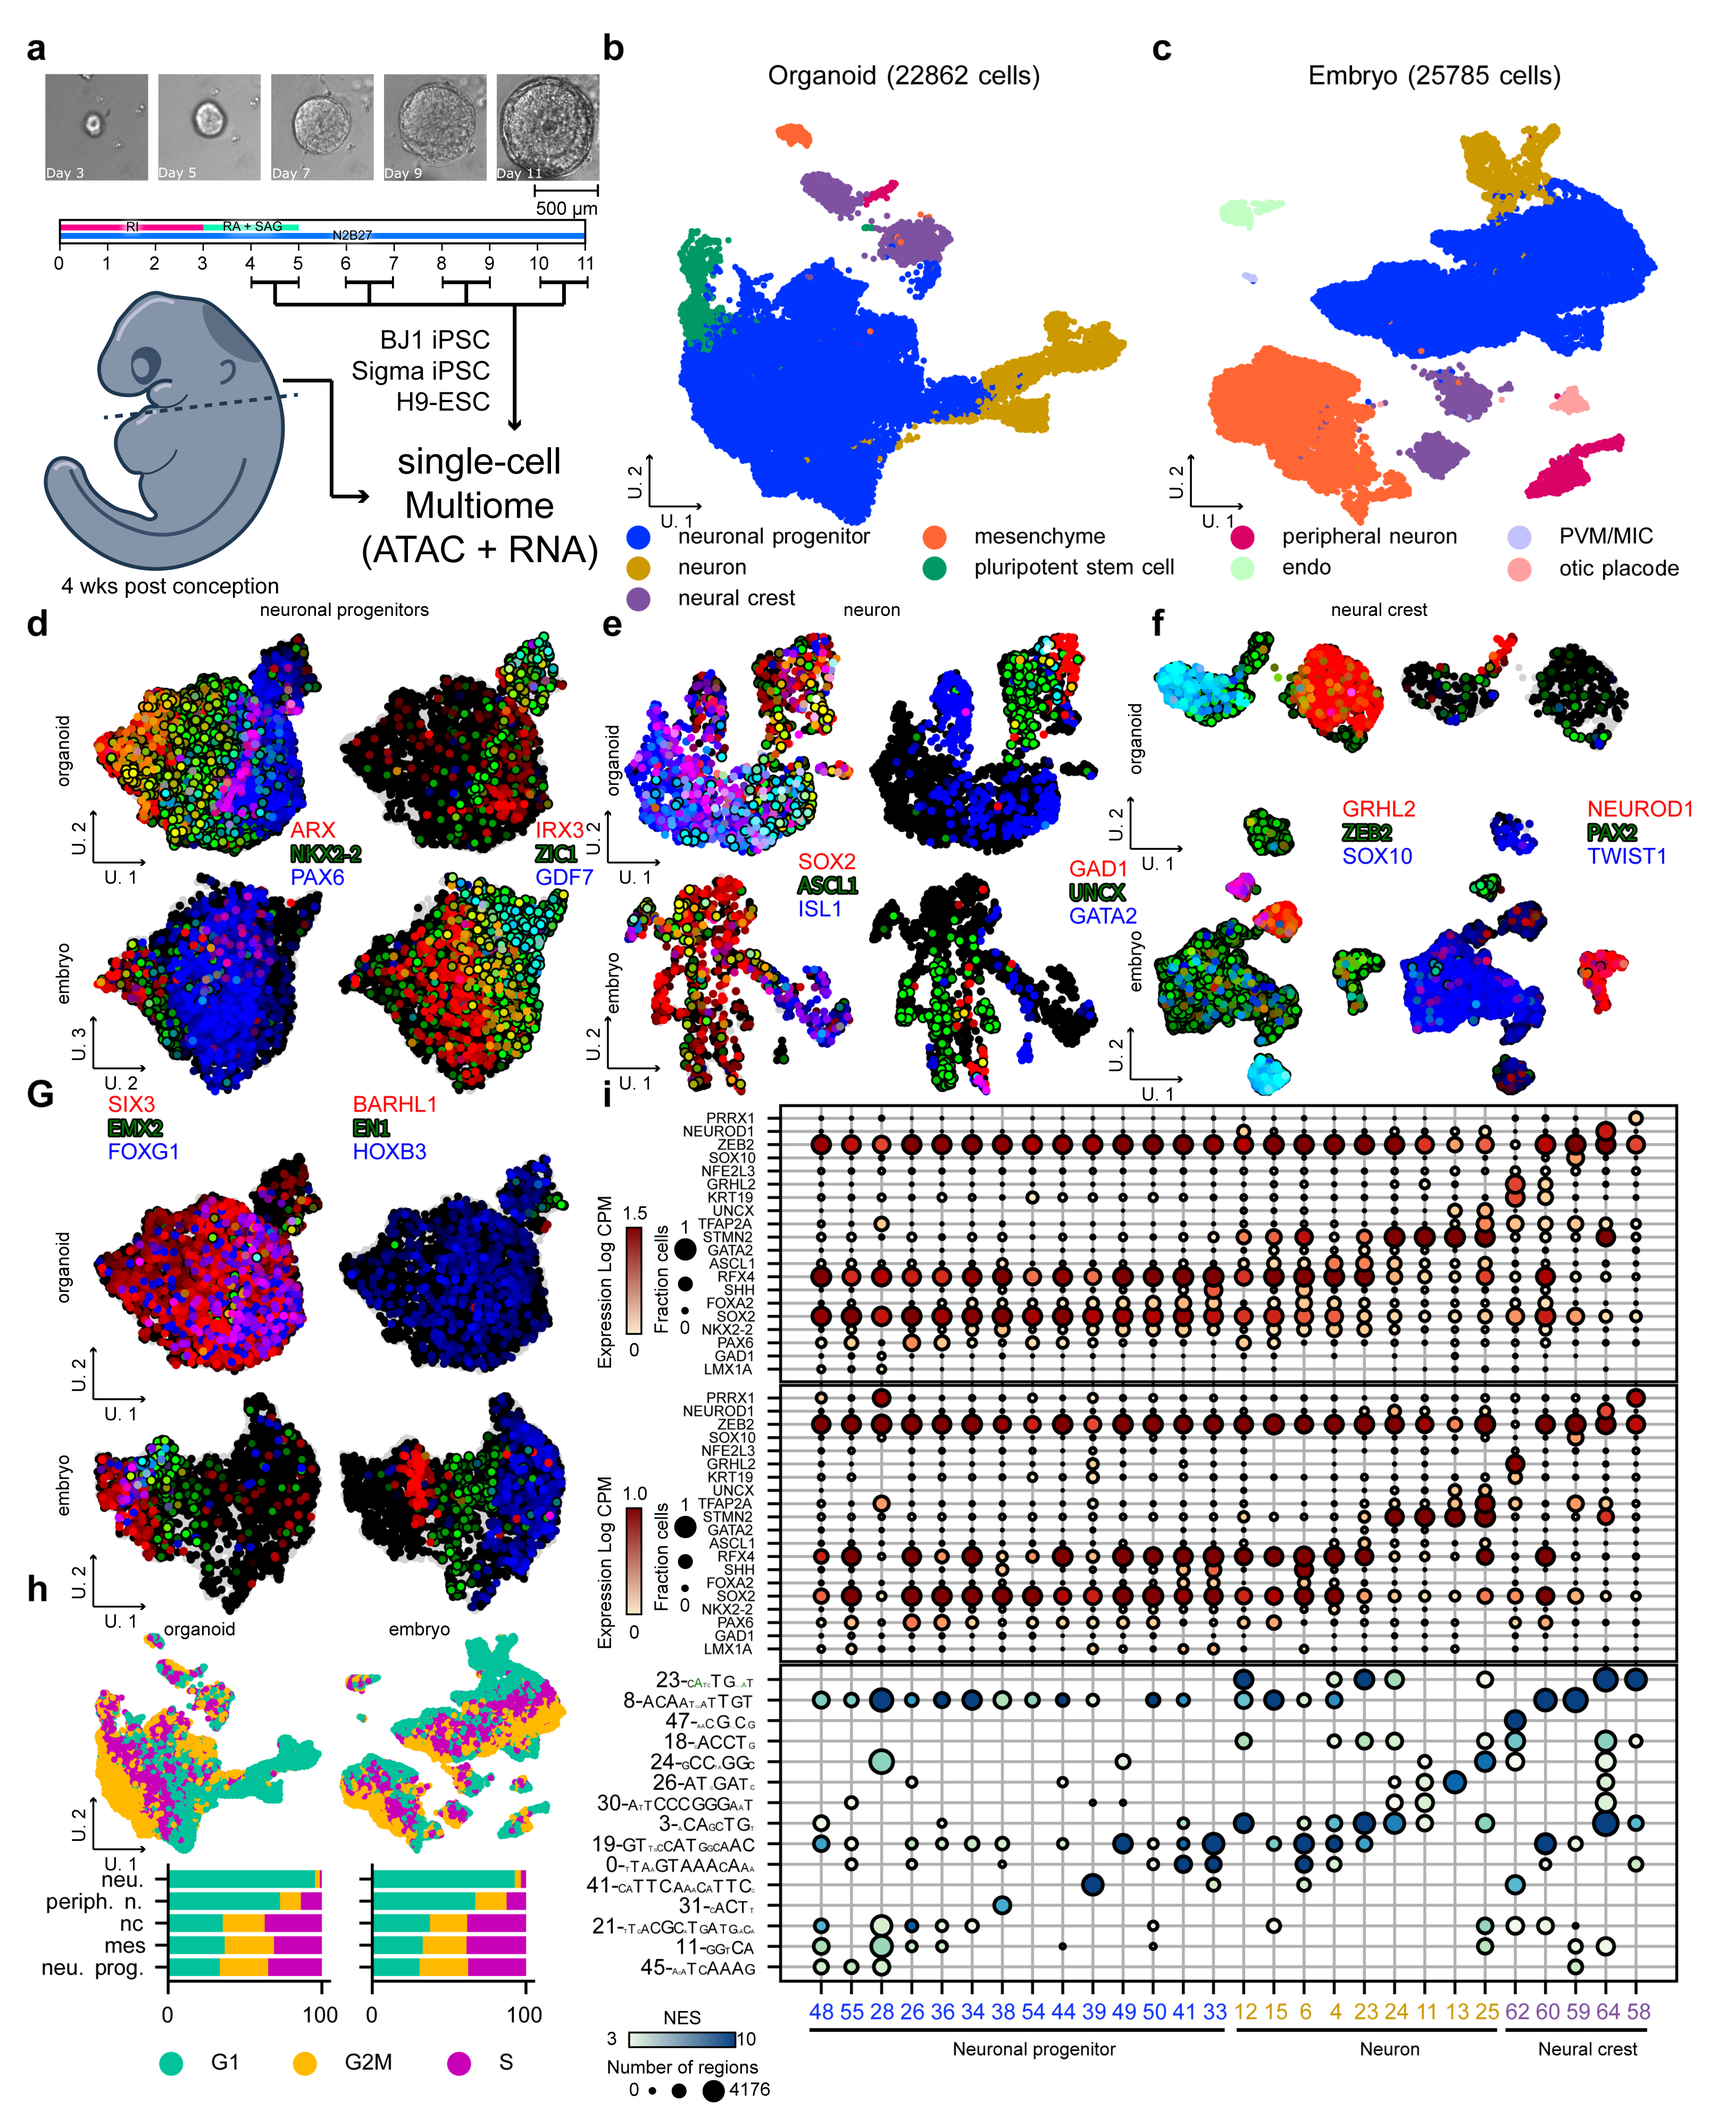
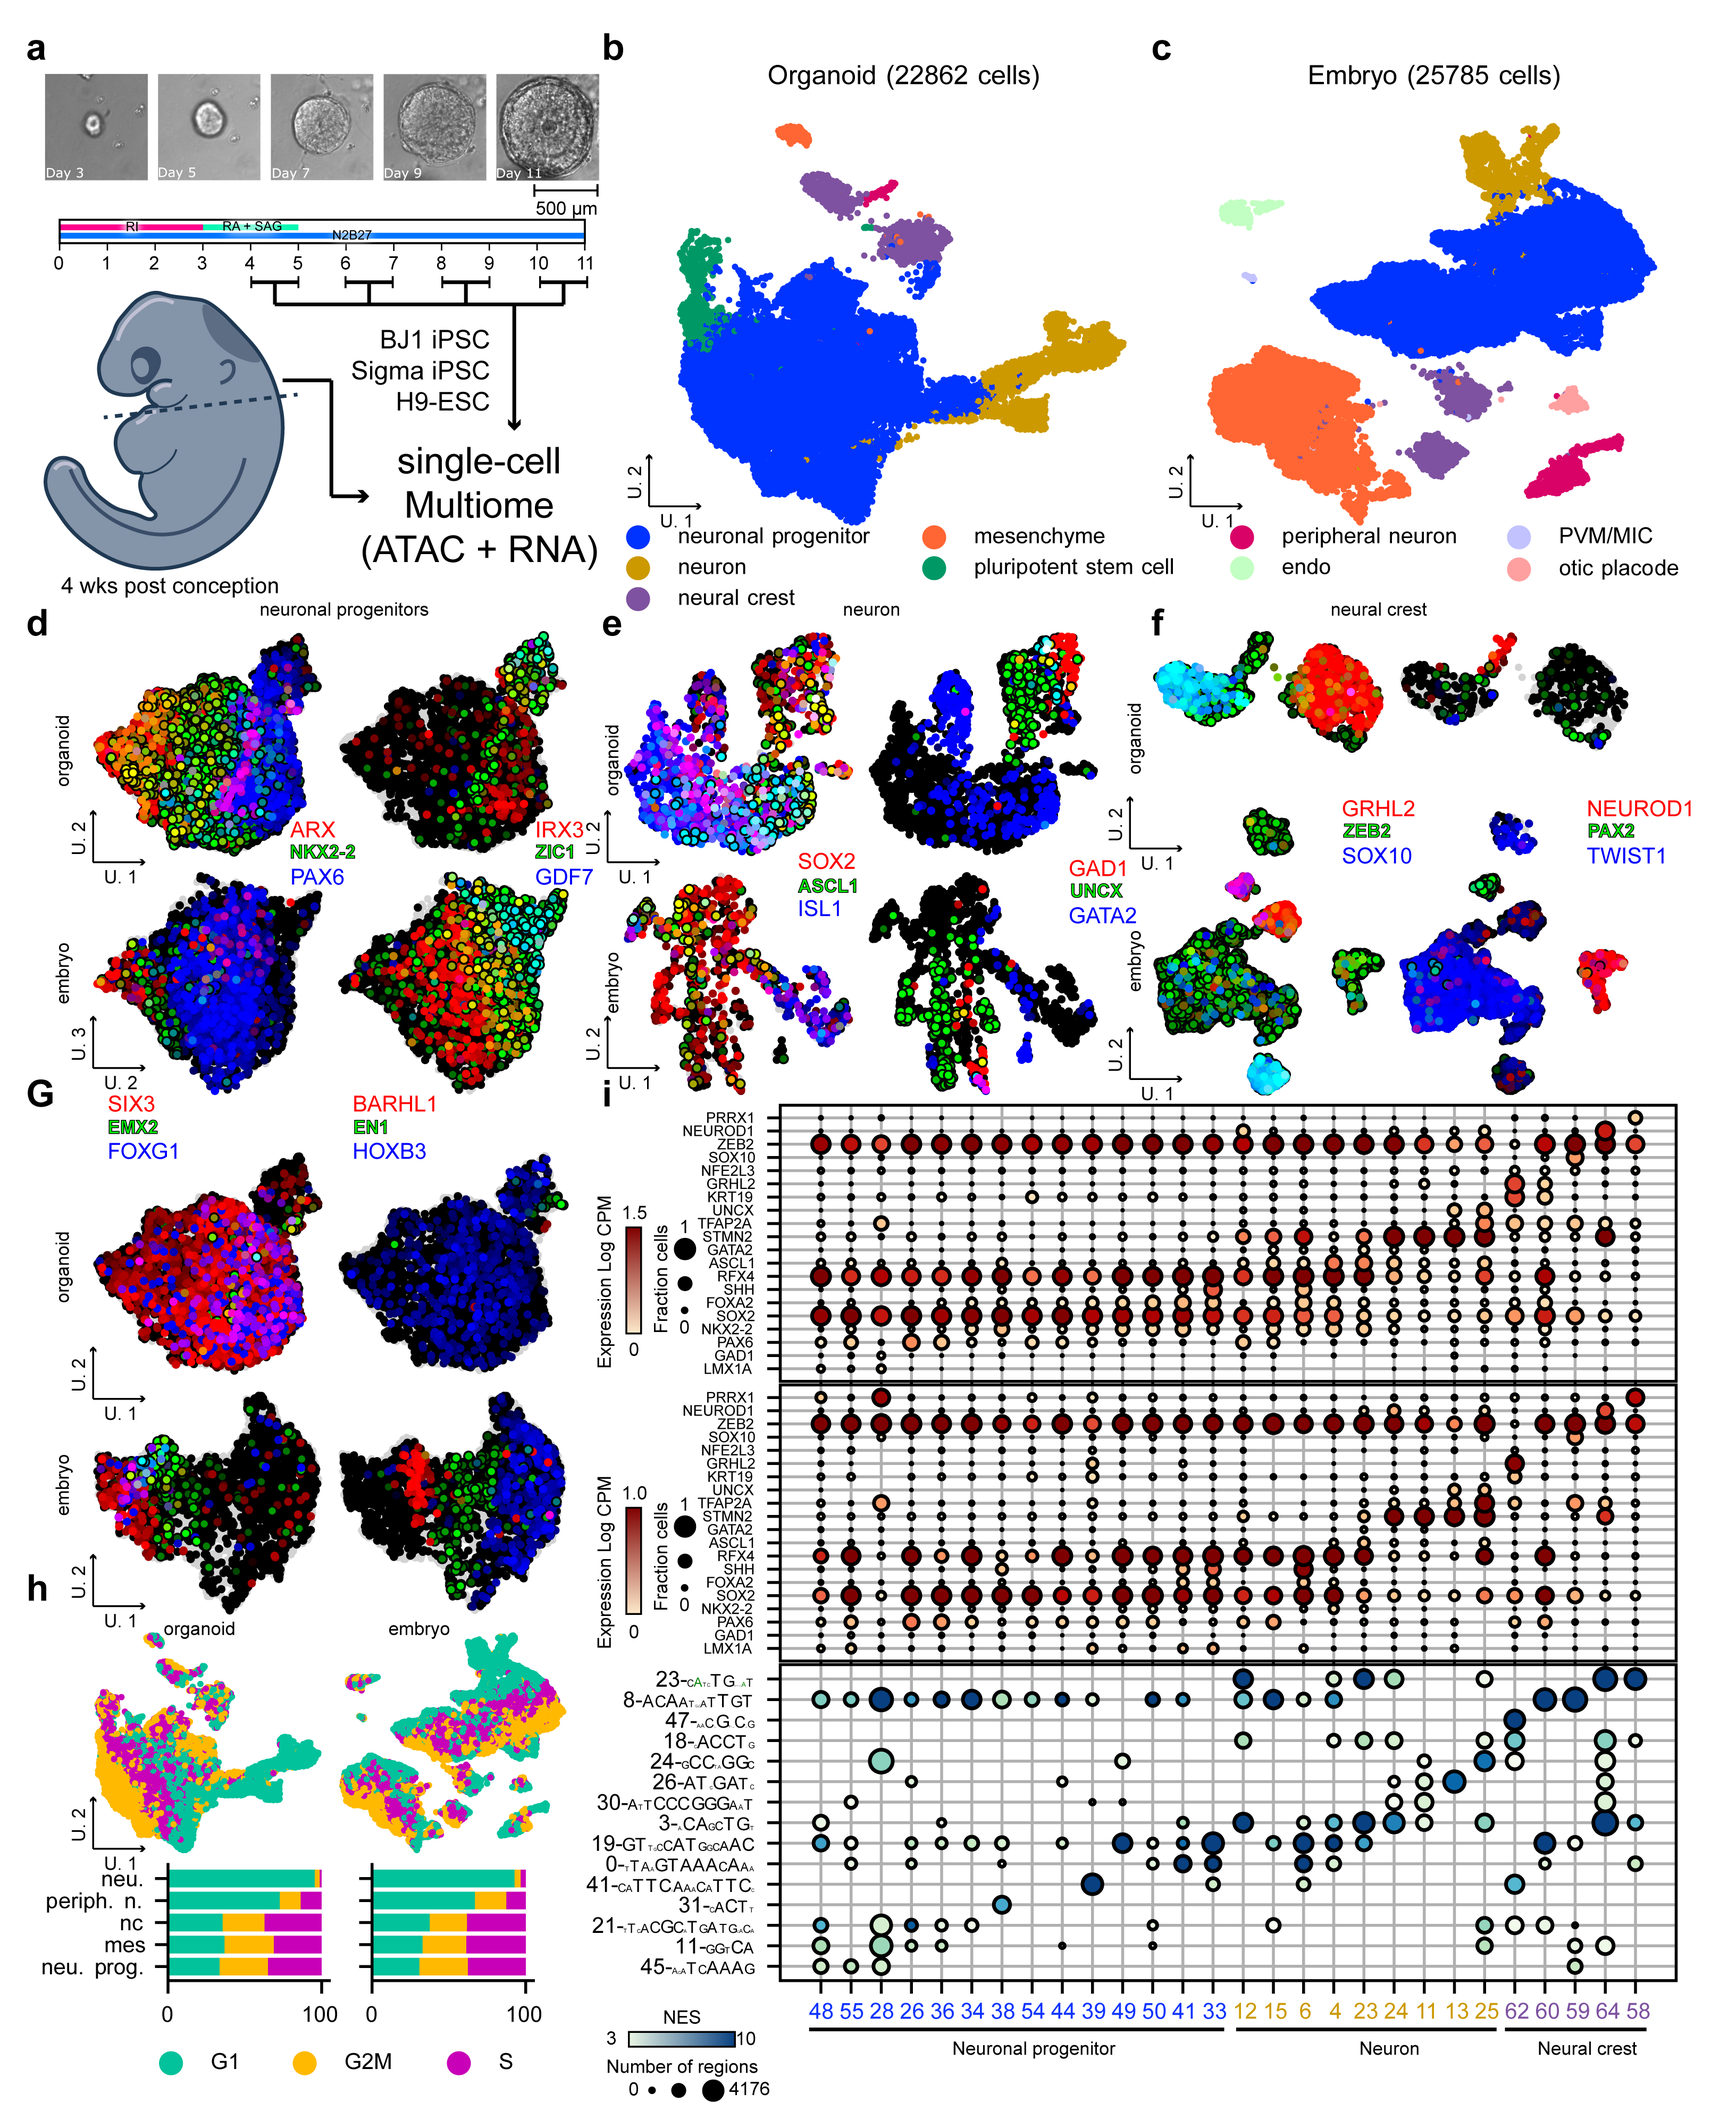
make text of fig 1 clearer

diff --git a/manuscript.tex b/manuscript.tex
@@ -231,9 +231,6 @@ and identified equivalent cells in the embryo where the same regions were also c
 We observed similar patterns of marker gene expression for the same cell state across the organoid and embryo (\textbf{Fig. 1i}) 
 with an average Pearson correlation coefficient of 0.83 across matched states (\textbf{Supplementary Fig. S1c-d}).\par
 
-
-%TODO:D) The black outline on green text (EMX2/EN1 etc) makes it difficult to read and see the color. consider making it thinner
-
 \afterpage{\clearpage}
 \begin{figure}[p]
   \includegraphics[width=1.0\linewidth]{figures/main/Figure_1.png}
@@ -1740,11 +1737,10 @@ The Scanpy\cite{wolfSCANPYLargescaleSinglecell2018} (v1.11.0; \href{https://rrid
 \paragraph*{Enhancer cloning}
 
 Enhancer candidates were ordered from Twist Bioscience (\href{https://rrid.site/data/record/nlx_144509-1/SCR_025817/resolver}{RRID:SCR\_025817}) with 5\lq 5\lq-GGTACCGAGCTCGAG-3\lq and 3\lq 5\lq-GGGCTCGAGATCTGC-3\lq adaptors.
-Plasmid pTK BsmBI LacZ Citrine Nanotag 24 (\href{https://rrid.site/data/record/nif-0000-11872-1/Addgene_130522/resolver}{RRID:Addgene\_130522}) was linarized using forward primer 5\lq-ggAACTCGAGCTCGGTACCT-3\lq and reverse primer 5\lq-GGGCTCGAGATCTGCGATC-3\lq. Using PCR. A PCR mixture of KAPA HiFi hot start ready mix (Roche, 07958935001 \SI{50}{\percent} V/V), \SI{0.8}{\micro\gram\per\micro\litre} plasmid and \SI{0.3}{\micro\molar} of forward and reverse primer and 
-%TODO: Add concentration
+Plasmid pTK BsmBI LacZ Citrine Nanotag 24 (\href{https://rrid.site/data/record/nif-0000-11872-1/Addgene_130522/resolver}{RRID:Addgene\_130522}) was linarized using forward primer 5\lq-ggAACTCGAGCTCGGTACCT-3\lq and reverse primer 5\lq-GGGCTCGAGATCTGCGATC-3\lq using PCR. A PCR mixture of KAPA HiFi hot start ready mix (Roche, 07958935001 \SI{50}{\percent} V/V), \SI{0.8}{\micro\gram\per\micro\litre} plasmid and \SI{0.3}{\micro\molar} of forward and reverse primer and 
 PCR program: \SI{95}{\degreeCelsius} for 3 minutes, 15 cycles of: \SI{98}{\degreeCelsius} for 20 seconds,
 \SI{58}{\degreeCelsius} for 15 seconds and \SI{72}{\degreeCelsius} for 2.5 minutes, followed by \SI{72}{\degreeCelsius}
-for 5 minutes.
+for 5 minutes was used.
 Linarized plasmids were purified using QIAquick PCR purification kit (Qiagen, 28104), followed by DpnI digestion for 1
 hour at \SI{37}{\degreeCelsius} and gel extraction of 4,5 kb band using QIAquick Gel Extraction Kit (Qiagen, 28704).
 Enhancer candiates were cloned into the target vector using an NEBuilder (New England Biolabs, E5520S) reaction with a linarized plasmid to insert ratio of 1:2 (45 minutes at \SI{50}{\degreeCelsius}). Next, \SI{2.5}{\micro\litre} of the rection mixture was transformed into \SI{25}{\micro\litre} Stellar Competent Cells (Takara Bio, 636763). Cells were thawed 15 minutes on ice, plasmid + cell mixture was kept for an additional 30 minutes on ice followed by 45 second heat shot at \SI{42}{\degreeCelsius} and 5 minutes on ice. 
@@ -1792,8 +1788,7 @@ For each pattern of the same cluster (see \textit{de novo} motif discovery) the 
 
 \subsubsection*{Footprinting analysis}
 TN5 cut site BigWigs were calculated for all organoid topics using the bigwig command from
-scatac\_fragment\_tools ()
-%TODO: add RRID
+scatac\_fragment\_tools (v0.1.3; \href{https://rrid.site/data/record/nlx_144509-1/SCR_026713/resolver?}{RRID:SCR\_026713})
 using the --cut-sites option.
 Next, for each pattern (converted to a PWM) of the FOX cluster of neural progenitors (cluster 6) motif hits were calculated on the top
 1,000 regions of all neural progenitor topics using FIMO\cite{grantFIMOScanningOccurrences2011} implemented in tangermeme (v0.4.0; \href{https://rrid.site/data/record/nlx_144509-1/SCR_026620/resolver}{RRID:SCR\_026620}) using default parameters.
